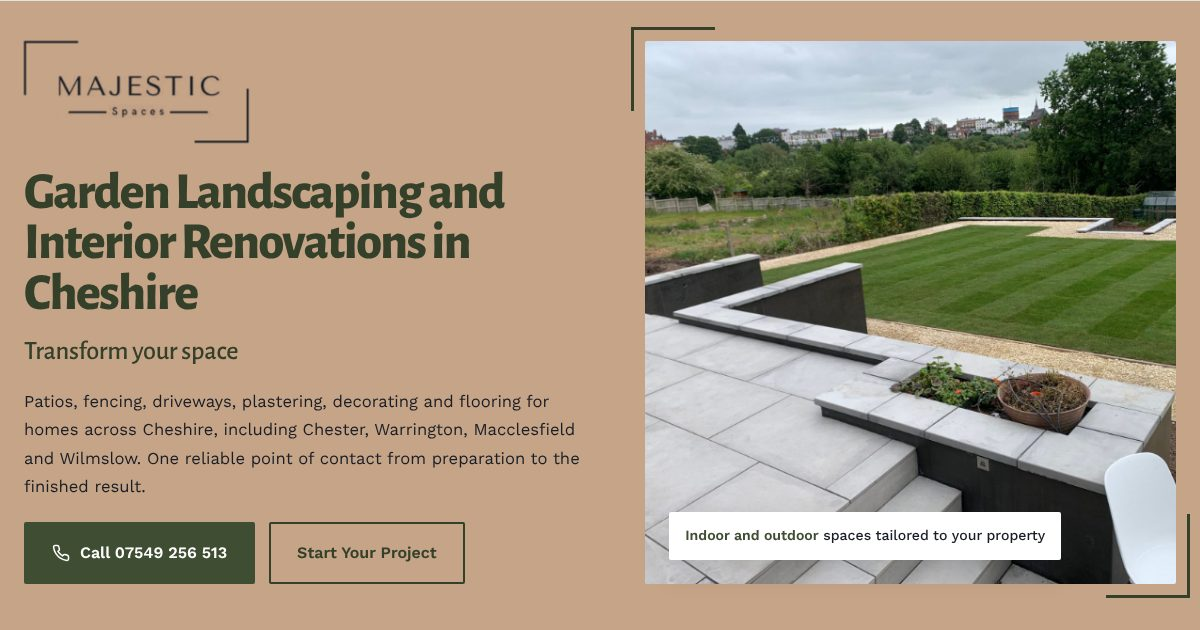
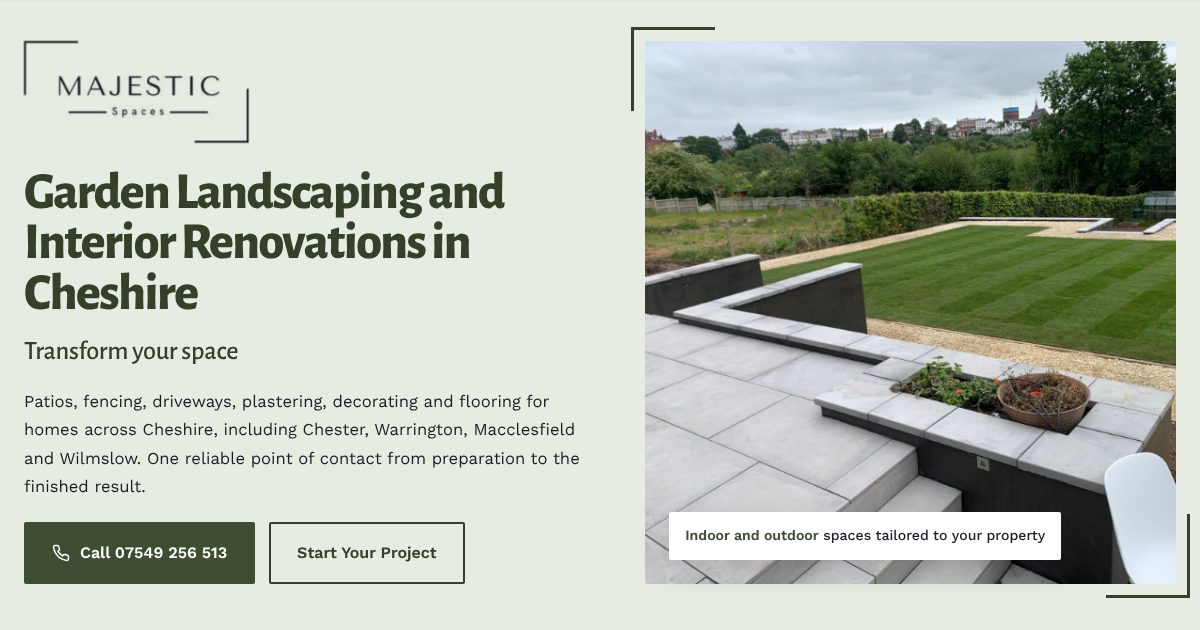
Majestic Spaces (A + B): drop the camel, olive and pale sage instead

diff --git a/majestic-spaces-b/index.html b/majestic-spaces-b/index.html
@@ -28,7 +28,7 @@
 :root{
   color-scheme:only light;
   --bg:#ffffff;--stone:#f2f4f3;--line:#e1e5e2;
-  --camel:#c6a488;--camel-soft:#e6d6c8;
+  --camel:#c5d1b8;--panel:#e7ece3;
   --olive:#3f4d32;--olive-deep:#34402a;--olive-hover:#2b3522;--footer:#2b3522;
   --slate:#304254;--ink:#191e26;--body:#3a4250;--muted:#6b7380;
   --wa:#25d366;
@@ -61,11 +61,12 @@ h3{font-size:1.45rem;font-weight:800;letter-spacing:-.01em}
 .brk.br{bottom:-14px;right:-14px;border-width:0 3px 3px 0}
 
 /* loader */
-#loader{position:fixed;inset:0;z-index:100;background:var(--camel);display:grid;place-items:center;transition:transform .7s cubic-bezier(.7,0,.2,1)}
+#loader{position:fixed;inset:0;z-index:100;background:var(--olive);display:grid;place-items:center;transition:transform .7s cubic-bezier(.7,0,.2,1)}
 #loader.lift{transform:translateY(-100%)}
 #loader.gone{display:none}
 .l-crest{position:relative;width:min(78vw,420px);aspect-ratio:254/115}
-.l-crest svg{position:absolute;inset:0;width:100%;height:100%;overflow:visible}
+.l-crest svg{position:absolute;inset:0;width:100%;height:100%;overflow:visible;stroke:#fff}
+.l-crest .wm{filter:brightness(0) invert(1)}
 .l-crest .wm{position:absolute;left:13.8%;top:30.4%;width:74.8%;opacity:0;transform:translateY(10px) scale(.96);animation:wmIn .7s .55s cubic-bezier(.2,.7,.2,1) forwards}
 .l-crest .b1{transform:translate(-60vw,-60vh);animation:b1In .75s .1s cubic-bezier(.2,.8,.2,1) forwards}
 .l-crest .b2{transform:translate(60vw,60vh);animation:b1In .75s .1s cubic-bezier(.2,.8,.2,1) forwards}
@@ -97,7 +98,7 @@ h3{font-size:1.45rem;font-weight:800;letter-spacing:-.01em}
 .mq-tile{height:100%;aspect-ratio:3/4;flex:none;padding-right:6px}
 .mq-tile img{width:100%;height:100%;object-fit:cover}
 @keyframes mq{from{transform:translateX(0)}to{transform:translateX(-50%)}}
-.hero-wash{position:absolute;inset:0;pointer-events:none;background:linear-gradient(180deg,rgba(198,164,136,.96) 0%,rgba(198,164,136,.82) 16%,rgba(198,164,136,0) 34%,rgba(43,53,34,0) 44%,rgba(43,53,34,.62) 60%,rgba(43,53,34,.95) 80%,#2b3522 100%)}
+.hero-wash{position:absolute;inset:0;pointer-events:none;background:linear-gradient(180deg,rgba(231,236,227,.96) 0%,rgba(231,236,227,.8) 16%,rgba(231,236,227,0) 34%,rgba(43,53,34,0) 44%,rgba(43,53,34,.62) 60%,rgba(43,53,34,.95) 80%,#2b3522 100%)}
 .hero-in{position:relative;z-index:2;display:flex;flex-direction:column;justify-content:space-between;min-height:88vh;padding-top:34px;padding-bottom:52px;pointer-events:none}
 .hero-in a,.hero-in button{pointer-events:auto}
 .crest{position:relative;width:min(100%,340px);aspect-ratio:254/115}
@@ -111,8 +112,8 @@ h3{font-size:1.45rem;font-weight:800;letter-spacing:-.01em}
 .hero h1{font-size:clamp(2.6rem,min(6.2vw,9vh),6rem);font-weight:800;color:#fff;letter-spacing:-.03em;line-height:.95}
 .tagline{font-family:'Alegreya Sans',sans-serif;font-weight:500;font-size:clamp(1.4rem,2.4vw,2.1rem);color:var(--camel);margin-top:12px}
 .hero-cta{display:flex;gap:14px;flex-wrap:wrap;margin-top:26px}
-.hero .btn-primary{background:var(--camel);color:var(--ink)}
-.hero .btn-primary:hover{background:#d6b89e}
+.hero .btn-primary{background:#fff;color:var(--olive-deep)}
+.hero .btn-primary:hover{background:var(--panel)}
 .hero .btn-ghost{border-color:#fff;color:#fff}
 .hero .btn-ghost:hover{background:#fff;color:var(--ink)}
 .hero-sub{background:var(--footer);color:#dfe3d8;padding-bottom:44px}
@@ -133,8 +134,8 @@ h3{font-size:1.45rem;font-weight:800;letter-spacing:-.01em}
 .plan-art{position:relative;background:#fff;border:1px solid var(--line);padding:22px}
 .plan-art svg{width:100%;height:auto;display:block;overflow:visible}
 .plan-art .ln{fill:none;stroke:var(--olive);stroke-width:2.4;stroke-linecap:round;stroke-linejoin:round}
-.plan-art .ln.c{stroke:var(--camel);stroke-width:3}
-.plan-art .brk{border-color:var(--camel)}
+.plan-art .ln.c{stroke:#8a9a78;stroke-width:3}
+.plan-art .brk{border-color:var(--olive)}
 
 /* calc: the picker */
 .pick{background:var(--olive);color:#e9ece4}
@@ -142,7 +143,7 @@ h3{font-size:1.45rem;font-weight:800;letter-spacing:-.01em}
 .pick .rule::before,.pick .rule::after{background:var(--camel)}
 .pick-tabs{display:flex;gap:10px;flex-wrap:wrap;margin-top:28px}
 .pick-tab{font:inherit;font-weight:600;padding:12px 20px;border:2px solid rgba(255,255,255,.35);background:none;color:#fff;border-radius:2px;cursor:pointer;transition:background .2s,border-color .2s,color .2s}
-.pick-tab[aria-pressed="true"]{background:var(--camel);border-color:var(--camel);color:var(--ink)}
+.pick-tab[aria-pressed="true"]{background:var(--camel);border-color:var(--camel);color:var(--olive-hover)}
 .pick-jobs{display:flex;flex-wrap:wrap;gap:10px;margin-top:20px;min-height:52px}
 .job{font:inherit;font-size:.95rem;padding:10px 16px;border:1px solid rgba(255,255,255,.3);background:rgba(255,255,255,.06);color:#e9ece4;border-radius:2px;cursor:pointer;display:inline-flex;align-items:center;gap:8px;transition:background .2s,transform .2s}
 .job::before{content:"+";font-weight:600;color:var(--camel)}
@@ -151,7 +152,6 @@ h3{font-size:1.45rem;font-weight:800;letter-spacing:-.01em}
 .job:active{transform:scale(.97)}
 .pick-out{margin-top:30px;padding:26px 28px;background:var(--footer);border-radius:2px;position:relative}
 .pick-out .brk{border-color:var(--camel)}
-.pick-out small{display:block;color:var(--camel);font-weight:600;font-size:.8rem;text-transform:uppercase;letter-spacing:.16em}
 .pick-out p{font-family:'Alegreya Sans',sans-serif;font-size:clamp(1.4rem,2.6vw,2rem);color:#fff;font-weight:700;line-height:1.15;margin-top:8px}
 .pick-out .hero-cta{margin-top:20px}
 .pick-out .btn-ghost{border-color:#fff;color:#fff}
@@ -159,7 +159,7 @@ h3{font-size:1.45rem;font-weight:800;letter-spacing:-.01em}
 
 /* rule motif */
 .rule{display:flex;align-items:center;gap:14px;margin:0 0 18px}
-.rule::before,.rule::after{content:"";height:2px;width:46px;background:var(--camel)}
+.rule::before,.rule::after{content:"";height:2px;width:46px;background:var(--olive)}
 
 /* trust */
 .trust{border-bottom:1px solid var(--line)}
@@ -185,7 +185,7 @@ section{padding-top:96px;padding-bottom:96px}
 .svc-photo .clip{aspect-ratio:4/3;overflow:hidden;border-radius:2px}
 .svc-photo img{width:100%;height:100%;object-fit:cover;transition:transform .6s ease}
 .svc:hover .svc-photo img{transform:scale(1.04)}
-.svc-photo .brk{width:34px;height:34px;border-color:var(--camel)}
+.svc-photo .brk{width:34px;height:34px;border-color:var(--olive)}
 .svc-photo .brk.tl{top:-8px;left:-8px;border-width:2px 0 0 2px}
 .svc-photo .brk.br{bottom:-8px;right:-8px;border-width:0 2px 2px 0}
 .svc-body{padding:26px 28px 30px}
@@ -221,7 +221,7 @@ section{padding-top:96px;padding-bottom:96px}
 .reviews{background:var(--stone)}
 .rev-grid{display:grid;grid-template-columns:repeat(2,1fr);gap:28px}
 .rev{background:#fff;padding:34px 34px 30px;border-radius:2px;position:relative;border:1px solid var(--line)}
-.rev .stars{color:var(--camel);letter-spacing:3px;font-size:1.1rem}
+.rev .stars{color:var(--olive);letter-spacing:3px;font-size:1.1rem}
 .rev blockquote{margin-top:14px;color:var(--ink);font-size:1.03rem;line-height:1.7}
 .rev cite{display:block;margin-top:18px;font-style:normal;font-size:.88rem;color:var(--muted);font-weight:500}
 .rev cite b{color:var(--olive);font-weight:600}
@@ -232,7 +232,7 @@ section{padding-top:96px;padding-bottom:96px}
 .areas-list li:first-child{background:var(--olive);border-color:var(--olive);color:#fff}
 
 /* cta band */
-.cta-band{background:var(--camel);padding-top:84px;padding-bottom:84px}
+.cta-band{background:var(--panel);padding-top:84px;padding-bottom:84px}
 .cta-in{display:flex;align-items:center;justify-content:space-between;gap:40px;flex-wrap:wrap}
 .cta-band h2{color:var(--olive-deep);font-size:clamp(2.2rem,5vw,3.6rem);font-weight:800}
 .cta-band p{color:var(--ink);margin-top:10px;max-width:36em}
@@ -246,7 +246,7 @@ section{padding-top:96px;padding-bottom:96px}
 .c-card svg{width:22px;height:22px;color:var(--olive);flex:none}
 .c-card small{display:block;font-size:.8rem;color:var(--muted);font-weight:500}
 form{background:#fff;border:1px solid var(--line);padding:36px;border-radius:2px;position:relative}
-form .brk{border-color:var(--camel)}
+form .brk{border-color:var(--olive)}
 label{display:block;font-weight:600;font-size:.88rem;color:var(--ink);margin-bottom:6px}
 label span{font-weight:400;color:var(--muted)}
 input,textarea{width:100%;font:inherit;font-size:1rem;padding:13px 14px;border:1px solid #cdd3cf;border-radius:2px;background:#fff;color:var(--ink);margin-bottom:18px}
@@ -270,7 +270,7 @@ footer a:hover{color:#fff}
 .fabs.show{opacity:1;transform:none;pointer-events:auto}
 .fab{width:56px;height:56px;border-radius:50%;display:grid;place-items:center;color:#fff;box-shadow:0 8px 22px rgba(0,0,0,.22)}
 .fab svg{width:24px;height:24px}
-.fab-call{background:var(--olive);border:2px solid var(--camel);animation:pulseO 2.4s infinite}
+.fab-call{background:var(--olive);border:2px solid #fff;animation:pulseO 2.4s infinite}
 .fab-wa{background:var(--wa);animation:pulseG 2.4s infinite .6s}
 .fab:hover{animation:none}
 @keyframes pulseO{0%{box-shadow:0 0 0 0 rgba(63,77,50,.5)}70%{box-shadow:0 0 0 16px rgba(63,77,50,0)}100%{box-shadow:0 0 0 0 rgba(63,77,50,0)}}
@@ -545,7 +545,7 @@ footer a:hover{color:#fff}
         <span class="brk tl"></span><span class="brk br"></span>
         <p id="pickSum">Tap the jobs you need</p>
         <div class="hero-cta">
-          <a href="#contact" class="btn btn-primary" id="pickSend" style="background:var(--camel);color:var(--ink)">Send This to Marcus</a>
+          <a href="#contact" class="btn btn-primary" id="pickSend" style="background:#fff;color:var(--olive-deep)">Send This to Marcus</a>
           <a href="#contact" class="btn btn-ghost js-phone" data-p="MDc1NDkyNTY1MTM=" data-d="MDc1NDkgMjU2IDUxMw=="><span>Call us</span></a>
         </div>
       </div>

diff --git a/majestic-spaces/index.html b/majestic-spaces/index.html
@@ -28,7 +28,7 @@
 :root{
   color-scheme:only light;
   --bg:#ffffff;--stone:#f2f4f3;--line:#e1e5e2;
-  --camel:#c6a488;--camel-soft:#e6d6c8;
+  --camel:#c5d1b8;--panel:#e7ece3;
   --olive:#3f4d32;--olive-deep:#34402a;--olive-hover:#2b3522;--footer:#2b3522;
   --slate:#304254;--ink:#191e26;--body:#3a4250;--muted:#6b7380;
   --wa:#25d366;
@@ -61,11 +61,12 @@ h3{font-size:1.45rem;font-weight:800;letter-spacing:-.01em}
 .brk.br{bottom:-14px;right:-14px;border-width:0 3px 3px 0}
 
 /* loader */
-#loader{position:fixed;inset:0;z-index:100;background:var(--camel);display:grid;place-items:center;transition:transform .7s cubic-bezier(.7,0,.2,1)}
+#loader{position:fixed;inset:0;z-index:100;background:var(--olive);display:grid;place-items:center;transition:transform .7s cubic-bezier(.7,0,.2,1)}
 #loader.lift{transform:translateY(-100%)}
 #loader.gone{display:none}
 .l-crest{position:relative;width:min(78vw,420px);aspect-ratio:254/115}
-.l-crest svg{position:absolute;inset:0;width:100%;height:100%;overflow:visible}
+.l-crest svg{position:absolute;inset:0;width:100%;height:100%;overflow:visible;stroke:#fff}
+.l-crest .wm{filter:brightness(0) invert(1)}
 .l-crest .wm{position:absolute;left:13.8%;top:30.4%;width:74.8%;opacity:0;transform:translateY(10px) scale(.96);animation:wmIn .7s .55s cubic-bezier(.2,.7,.2,1) forwards}
 .l-crest .b1{transform:translate(-60vw,-60vh);animation:b1In .75s .1s cubic-bezier(.2,.8,.2,1) forwards}
 .l-crest .b2{transform:translate(60vw,60vh);animation:b1In .75s .1s cubic-bezier(.2,.8,.2,1) forwards}
@@ -90,7 +91,7 @@ h3{font-size:1.45rem;font-weight:800;letter-spacing:-.01em}
 .nav-toggle[aria-expanded="true"] span:nth-child(3){transform:translateY(-8px) rotate(-45deg)}
 
 /* hero */
-.hero{background:var(--camel);display:flex;flex-direction:column;position:relative;overflow:hidden}
+.hero{background:var(--panel);display:flex;flex-direction:column;position:relative;overflow:hidden}
 .hero-grid{display:grid;grid-template-columns:1.05fr 1fr;gap:64px;align-items:center;height:clamp(560px,calc(100vh - var(--nav-h)),780px);padding-top:40px;padding-bottom:48px}
 .crest{position:relative;width:min(100%,clamp(190px,32vh,330px));aspect-ratio:254/115;margin-bottom:clamp(16px,3.4vh,30px)}
 .crest svg{position:absolute;inset:0;width:100%;height:100%;overflow:visible}
@@ -123,7 +124,7 @@ h3{font-size:1.45rem;font-weight:800;letter-spacing:-.01em}
 
 /* rule motif */
 .rule{display:flex;align-items:center;gap:14px;margin:0 0 18px}
-.rule::before,.rule::after{content:"";height:2px;width:46px;background:var(--camel)}
+.rule::before,.rule::after{content:"";height:2px;width:46px;background:var(--olive)}
 
 /* trust */
 .trust{border-bottom:1px solid var(--line)}
@@ -149,7 +150,7 @@ section{padding-top:96px;padding-bottom:96px}
 .svc-photo .clip{aspect-ratio:4/3;overflow:hidden;border-radius:2px}
 .svc-photo img{width:100%;height:100%;object-fit:cover;transition:transform .6s ease}
 .svc:hover .svc-photo img{transform:scale(1.04)}
-.svc-photo .brk{width:34px;height:34px;border-color:var(--camel)}
+.svc-photo .brk{width:34px;height:34px;border-color:var(--olive)}
 .svc-photo .brk.tl{top:-8px;left:-8px;border-width:2px 0 0 2px}
 .svc-photo .brk.br{bottom:-8px;right:-8px;border-width:0 2px 2px 0}
 .svc-body{padding:26px 28px 30px}
@@ -185,7 +186,7 @@ section{padding-top:96px;padding-bottom:96px}
 .reviews{background:var(--stone)}
 .rev-grid{display:grid;grid-template-columns:repeat(2,1fr);gap:28px}
 .rev{background:#fff;padding:34px 34px 30px;border-radius:2px;position:relative;border:1px solid var(--line)}
-.rev .stars{color:var(--camel);letter-spacing:3px;font-size:1.1rem}
+.rev .stars{color:var(--olive);letter-spacing:3px;font-size:1.1rem}
 .rev blockquote{margin-top:14px;color:var(--ink);font-size:1.03rem;line-height:1.7}
 .rev cite{display:block;margin-top:18px;font-style:normal;font-size:.88rem;color:var(--muted);font-weight:500}
 .rev cite b{color:var(--olive);font-weight:600}
@@ -196,7 +197,7 @@ section{padding-top:96px;padding-bottom:96px}
 .areas-list li:first-child{background:var(--olive);border-color:var(--olive);color:#fff}
 
 /* cta band */
-.cta-band{background:var(--camel);padding-top:84px;padding-bottom:84px}
+.cta-band{background:var(--panel);padding-top:84px;padding-bottom:84px}
 .cta-in{display:flex;align-items:center;justify-content:space-between;gap:40px;flex-wrap:wrap}
 .cta-band h2{color:var(--olive-deep);font-size:clamp(2.2rem,5vw,3.6rem);font-weight:800}
 .cta-band p{color:var(--ink);margin-top:10px;max-width:36em}
@@ -210,7 +211,7 @@ section{padding-top:96px;padding-bottom:96px}
 .c-card svg{width:22px;height:22px;color:var(--olive);flex:none}
 .c-card small{display:block;font-size:.8rem;color:var(--muted);font-weight:500}
 form{background:#fff;border:1px solid var(--line);padding:36px;border-radius:2px;position:relative}
-form .brk{border-color:var(--camel)}
+form .brk{border-color:var(--olive)}
 label{display:block;font-weight:600;font-size:.88rem;color:var(--ink);margin-bottom:6px}
 label span{font-weight:400;color:var(--muted)}
 input,textarea{width:100%;font:inherit;font-size:1rem;padding:13px 14px;border:1px solid #cdd3cf;border-radius:2px;background:#fff;color:var(--ink);margin-bottom:18px}
@@ -234,7 +235,7 @@ footer a:hover{color:#fff}
 .fabs.show{opacity:1;transform:none;pointer-events:auto}
 .fab{width:56px;height:56px;border-radius:50%;display:grid;place-items:center;color:#fff;box-shadow:0 8px 22px rgba(0,0,0,.22)}
 .fab svg{width:24px;height:24px}
-.fab-call{background:var(--olive);border:2px solid var(--camel);animation:pulseO 2.4s infinite}
+.fab-call{background:var(--olive);border:2px solid #fff;animation:pulseO 2.4s infinite}
 .fab-wa{background:var(--wa);animation:pulseG 2.4s infinite .6s}
 .fab:hover{animation:none}
 @keyframes pulseO{0%{box-shadow:0 0 0 0 rgba(63,77,50,.5)}70%{box-shadow:0 0 0 16px rgba(63,77,50,0)}100%{box-shadow:0 0 0 0 rgba(63,77,50,0)}}
@@ -273,7 +274,7 @@ footer a:hover{color:#fff}
   .hero-photo .brk{width:54px;height:54px}
   .hero-photo .brk.tl{top:-10px;left:-10px}
   .hero-photo .brk.br{bottom:-10px;right:-10px}
-  .hero-badge{position:static;margin-top:22px;display:block;box-shadow:none;background:rgba(255,255,255,.55)}
+  .hero-badge{position:static;margin-top:22px;display:block;box-shadow:none;background:#fff}
   .trust-in{grid-template-columns:1fr;padding-top:10px;padding-bottom:10px}
   .trust-item,.trust-item:nth-child(4){border-left:0;padding:14px 0;border-top:1px solid var(--line)}
   .trust-item:first-child{border-top:0}
